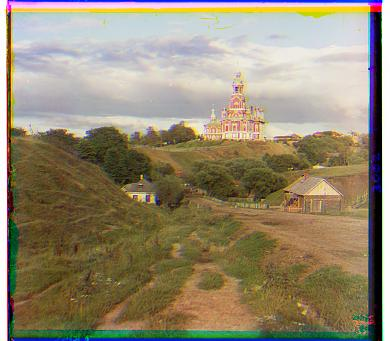
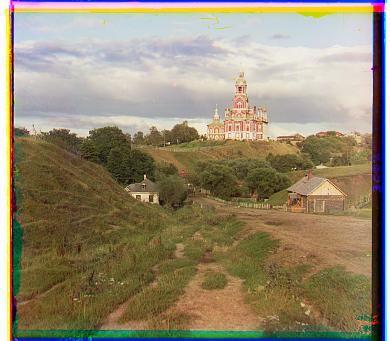
small single scale bug corrected

diff --git a/1/index.html b/1/index.html
@@ -72,8 +72,8 @@
                     <img src="./single-scale-cathedral2.jpg" alt="cathedral.jpg">
                     <figcaption>
                         <span class="offset-line">
-                            <span class="channel-g">G: (5, -1)</span>
-                            <span class="channel-r">R: (12, -1)</span>
+                            <span class="channel-g">G: (2, 5)</span>
+                            <span class="channel-r">R: (3, 12)</span>
                         </span>
                         cathedral.jpg
                     </figcaption>
@@ -82,8 +82,8 @@
                     <img src="./single-scale-monastery2.jpg" alt="monastery.jpg">
                     <figcaption>
                         <span class="offset-line">
-                            <span class="channel-g">G: (-3, 1)</span>
-                            <span class="channel-r">R: (3, 2)</span>
+                            <span class="channel-g">G: (2, -3)</span>
+                            <span class="channel-r">R: (2, 3)</span>
                         </span>
                         monastery.jpg
                     </figcaption>
@@ -92,8 +92,8 @@
                     <img src="./single-scale-tobolsk2.jpg" alt="tobolsk.jpg">
                     <figcaption>
                         <span class="offset-line">
-                            <span class="channel-g">G: (3, 2)</span>
-                            <span class="channel-r">R: (6, 3)</span>
+                            <span class="channel-g">G: (2, 3)</span>
+                            <span class="channel-r">R: (3, 6)</span>
                         </span>
                         tobolsk.jpg
                     </figcaption>
